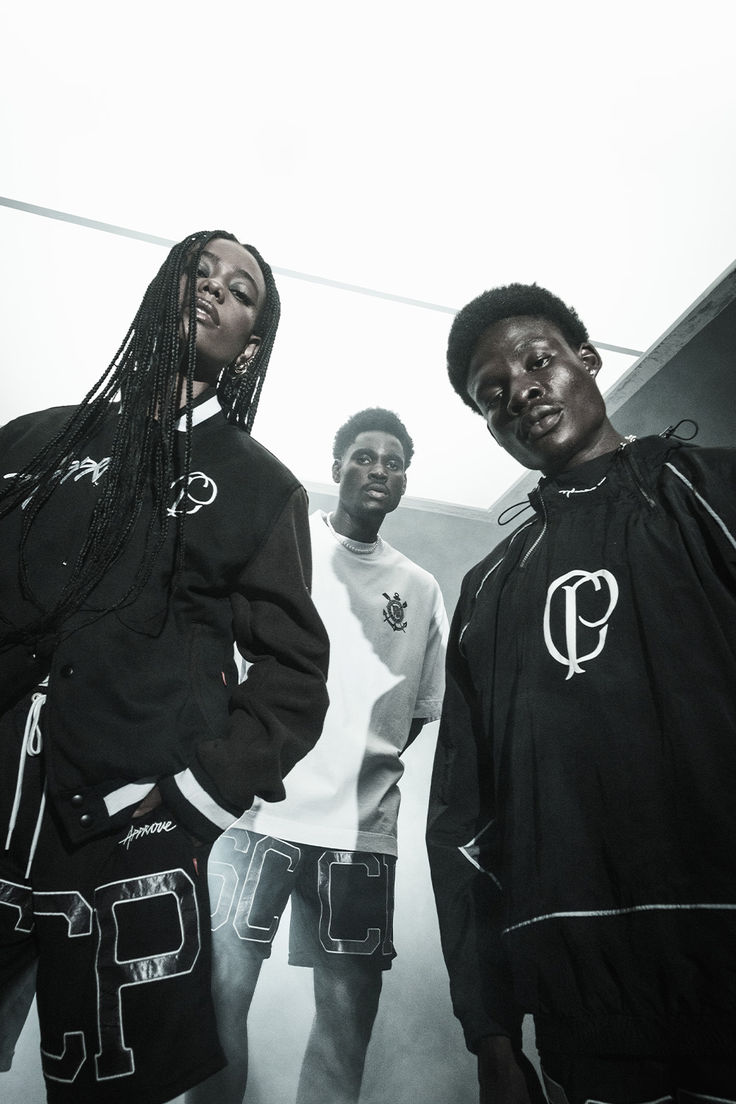
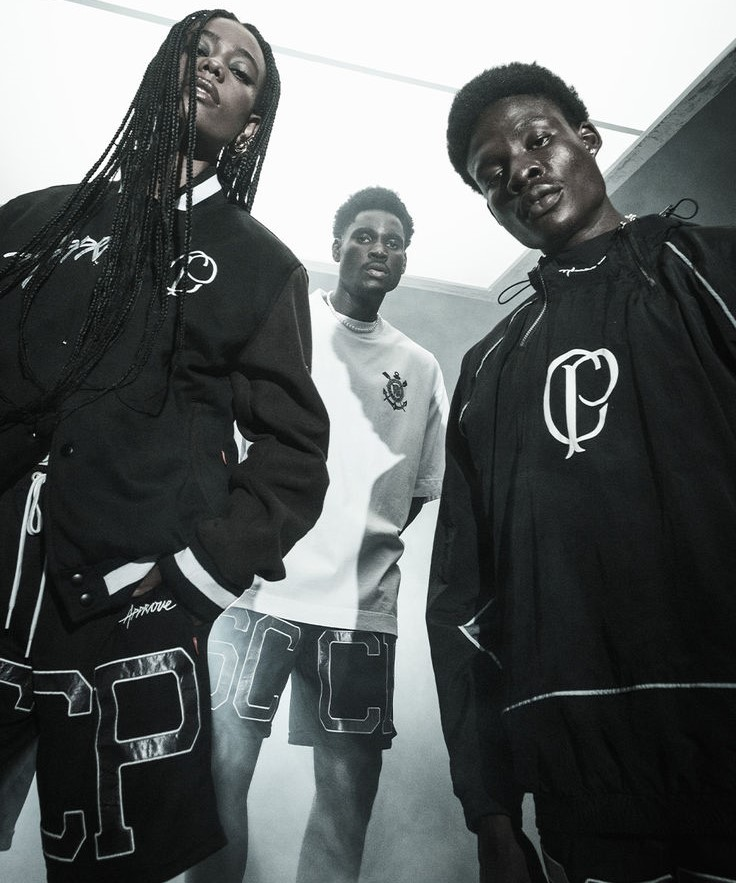
feat: update css

diff --git a/style.css b/style.css
@@ -1,61 +1,107 @@
+* {
+    margin: 0;
+    padding: 0;
+    box-sizing: border-box;
+    font-family: Impact, Haettenschweiler, 'Arial Narrow Bold', sans-serif;
+}
+
+:root {
+    --primaria:#46e54e;
+    --secundaria: #3aed3a;
+    --escuro: #0f2a14;
+    --maisEscuro: #0a1c0c;
+    --claro: #e2f0e4;
+    --vidro: rgba(255, 255, 255, 0.1);
+}
+
 body {
     background-image: url(assets/background-page.jpg);
-    font-family: Impact, Haettenschweiler, 'Arial Narrow Bold', sans-serif;
+    object-fit: cover;
     background-size: cover;
     background-repeat: no-repeat;
     color: aliceblue;
 }
 
 h1 {
-    background-color: brown;
     color: aliceblue;
-    font-size: 100pt;
+    font-size: 70pt;
     text-align: center;
+    margin-top: 10px;
+    margin-bottom: 10px;
+}
+
+#foto {
+    border: 4px solid var(--vidro);
+    box-shadow: 0 0 20px var(--vidro);
+    border-radius: 30px;
+    margin-top: 11px;
+    object-fit: cover;
+    object-position: top;
+    width: 400px;
+    height: 300px;
 }
 
 #container {
-    background-color: brown;
+    margin-top: 70px;
     display: flex;
     align-items: flex-start;
     justify-content: center;
     gap: 20px;
-    margin: 20px;
+    margin: 10p;
 }
 
 .texto {
-    background-color: rgb(71, 165, 42);
-    margin-top: 0;
     flex-direction: column;
-    gap: 10px;
-    max-width: 400px;
 }
 
-.texto h2 {
-    background-color: rgb(132, 0, 255);
+#titulo {
+    margin: 0;
     font-size: 40pt;
 }
 
-.texto p {
-    background-color: rgb(255, 0, 0);
-    font-size: 20pt;
+#descricao {
+    font-size: 15pt;
 }
 
-.texto a {
-    background-color: rgb(255, 16, 175);
+#link {
     font-size: 20pt;
 }
 
 .botoes {
-    background-color: brown;
     text-align: center;
     padding: 20px;
 }
 
 #btn-voltar {
-    background-color: rgb(101, 199, 255);
-    gap: 10px;
+    margin-right: 10px;
+    color: var(--escuro);
+    background: linear-gradient(45deg, var(--vidro), var(--claro));
+    padding: 1rem 2rem;
+    border: none;
+    border-radius: 8px;
+    cursor: pointer;
+    font-weight: bold;
+    transition: all 0.5s ease;
+}
+
+#btn-voltar:hover {
+    transform: translateY(-4px);
+    box-shadow: 0 5px 15px var(--primaria);
 }
 
 #btn-avancar {
-    background-color: rgb(68, 0, 255);
+    margin-left: 10px;
+    color: var(--escuro);
+    background: linear-gradient(45deg, var(--vidro), var(--claro));
+    padding: 1rem 2rem;
+    border: none;
+    border-radius: 8px;
+    cursor: pointer;
+    font-weight: bold;
+    transition: all 0.5s ease;
+}
+
+#btn-avancar:hover {
+    transform: translateY(-4px);
+    box-shadow: 0 5px 15px var(--primaria);
 }

diff --git a/index.html b/index.html
@@ -7,14 +7,16 @@
     <title>Top 10</title>
 </head>
 <body>
+
+    <nav></nav>
     <h1>TOP 10 CAMISAS DE TIME</h1>
 
     <div id="container">
         <img src="assets/Approve x Corinthians.jpg" alt="Camisa do Corinthians" id="foto">
         <div class="texto">
-            <h2 id="titulo">Título</h2>
-            <p id="descricao">Descrição</p>
-            <a href="" target="_blank">Link</a>
+            <h2 id="titulo"></h2>
+            <p id="descricao"></p>
+            <a id="link" target="_blank"></a>
         </div>
     </div>
 
